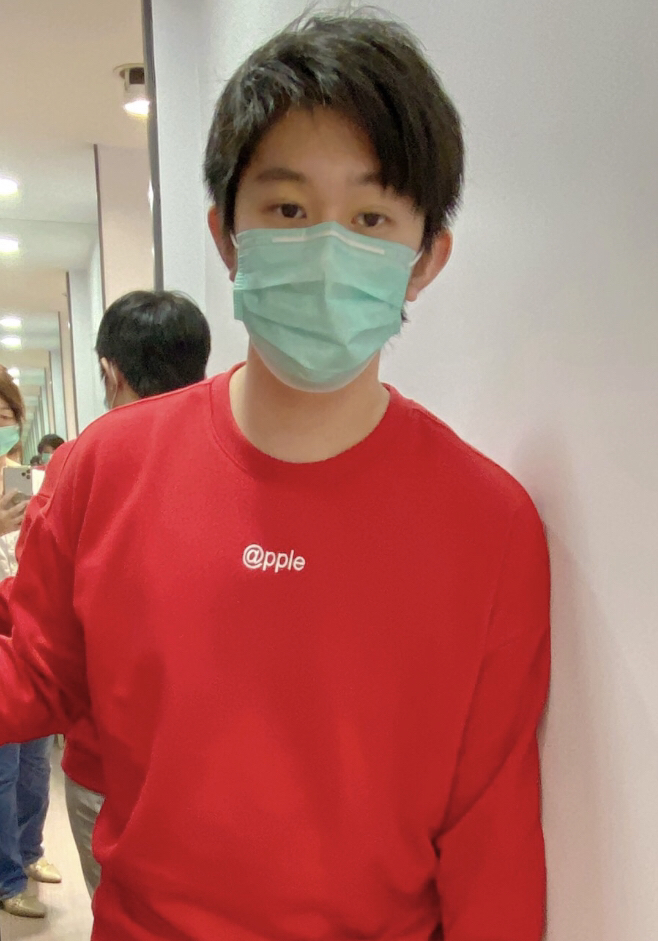
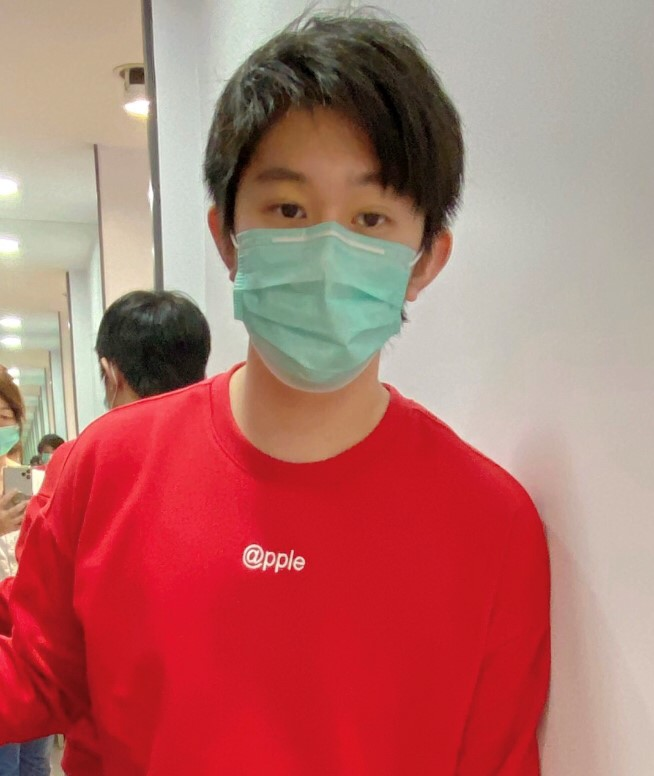
change image size

diff --git a/Members.html b/Members.html
@@ -75,7 +75,7 @@
                     <p class="white2">Justin is a sophomore in our school. When Justin is free, he likes to read manga such as Komi San Wa Komyushou Desu and Classroom of the Elite. Furthermore, like Nico, Justin also enjoys watching vtubers on YouTube. Justin is also an avid computer science learner. He is very interested in coding and programming, as well as web development and how to create an optimal user interface. This has prompted Justin to take computer related courses such as Java and C++ coding. Although Justin is not taking our school’s web development course, this has not stopped him from learning html programming in his own time. Justin gathered all of his knowledge on html through watching YouTube tutorials and consulting online blogs for help. Gathering all of his knowledge from his online learning, Justin was able to create our website entirely from scratch, through Github, using html. This is why Justin is in charge of developing the website, creating both the code behind it as well as the user interface. According to Justin, in order to code a website “you first write html code and dump the content that you wrote along with the design with css style sheets”. 
                     </p>
                 </div>
-                <img src="https://github.com/Justin13131/SusprojectPAS/blob/main/Photos/Devin.jpg?raw=true">
+                <img src="https://github.com/Justin13131/SusprojectPAS/blob/main/Photos/Justin.jpg?raw=true" class="lsize">
             </div>
 
                 

diff --git a/Members.css b/Members.css
@@ -51,7 +51,7 @@ div.Justin {
     padding-top: 10px;
     margin-bottom: 5vh;
     margin-top: 5vh;
-    margin-left: 32.5vw;
+    margin-left: 20vw;
     padding: 30px;
 
 
@@ -94,4 +94,9 @@ p.title {
 div.subDev {
     display: flex;
     /* justify-content: space-between; */
+}
+p.lsize {
+    display: block;
+    width: 100%;
+    height: 100%;
 }
